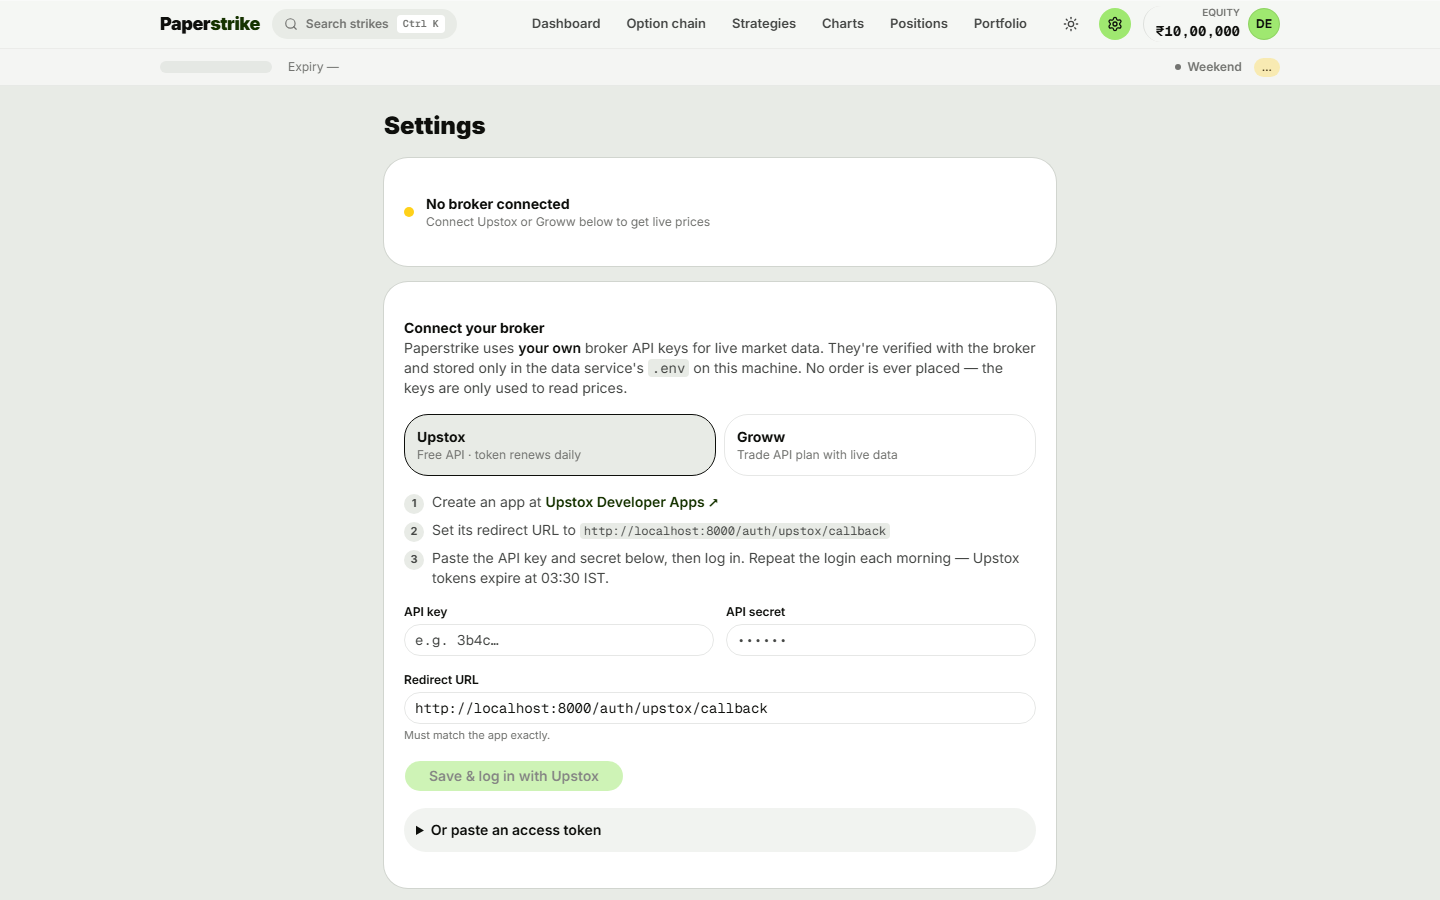
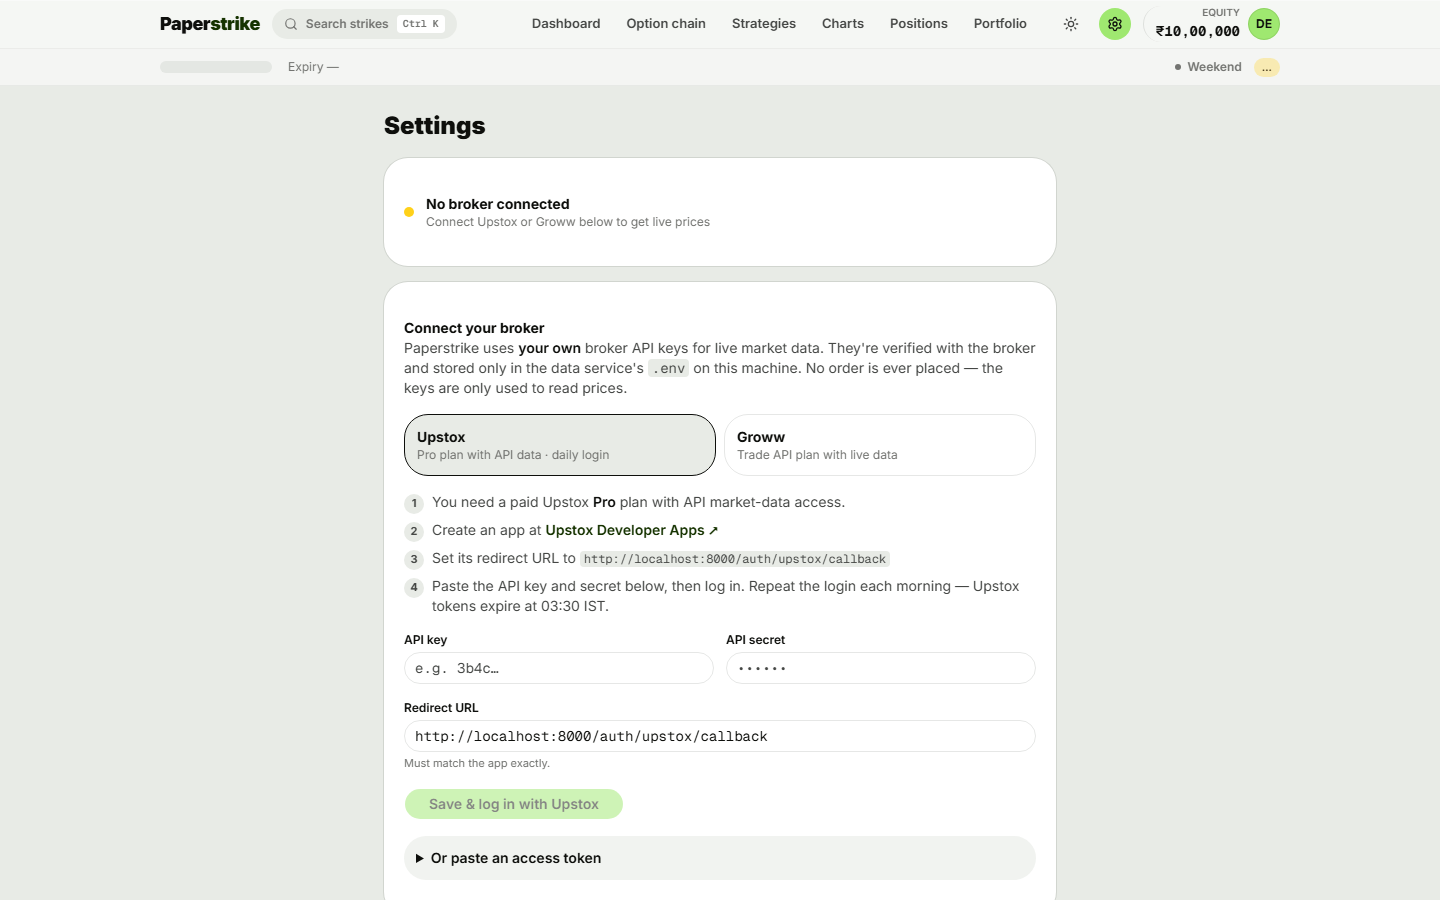
Clarify that Upstox API market data needs a paid Pro plan

Changed region(s): [[0.25, 0.4978, 0.75, 1.0]]

diff --git a/web/src/components/broker-connect.tsx b/web/src/components/broker-connect.tsx
@@ -56,7 +56,7 @@ async function post(path: string, body: unknown) {
 }
 
 const BROKERS: { id: BrokerId; label: string; blurb: string }[] = [
-  { id: "upstox", label: "Upstox", blurb: "Free API · token renews daily" },
+  { id: "upstox", label: "Upstox", blurb: "Pro plan with API data · daily login" },
   { id: "groww", label: "Groww", blurb: "Trade API plan with live data" },
 ];
 
@@ -210,15 +210,18 @@ function UpstoxForm({ status, busy, connect }: { status: BrokerStatus | null; bu
     <div className="flex flex-col gap-4">
       <ol className="flex flex-col gap-1.5">
         <Step n={1}>
+          You need a paid Upstox <strong className="font-semibold text-foreground">Pro</strong> plan with API market-data access.
+        </Step>
+        <Step n={2}>
           Create an app at{" "}
           <a className="font-semibold text-ink-deep hover:underline" href="https://account.upstox.com/developer/apps" target="_blank" rel="noreferrer">
             Upstox Developer Apps ↗
           </a>
         </Step>
-        <Step n={2}>
+        <Step n={3}>
           Set its redirect URL to <code className="rounded bg-secondary px-1 text-xs">{callback}</code>
         </Step>
-        <Step n={3}>Paste the API key and secret below, then log in. Repeat the login each morning — Upstox tokens expire at 03:30 IST.</Step>
+        <Step n={4}>Paste the API key and secret below, then log in. Repeat the login each morning — Upstox tokens expire at 03:30 IST.</Step>
       </ol>
 
       <div className="grid gap-3 sm:grid-cols-2">

diff --git a/web/src/app/page.tsx b/web/src/app/page.tsx
@@ -211,7 +211,7 @@ export default function Landing() {
           },
           {
             q: "Do I need an account?",
-            a: "Not with us. There's no sign-up and nothing is sent anywhere — Paperstrike runs on your own machine and your keys stay there. You do need your own broker API keys for the market feed: Upstox (free, log in once a day) or Groww (Trade API plan with live data).",
+            a: "Not with us. There's no sign-up and nothing is sent anywhere — Paperstrike runs on your own machine and your keys stay there. You do need your own broker API keys for the market feed: Upstox (Pro plan with API data, log in once a day) or Groww (Trade API plan with live data). Both brokers charge for API market data.",
           },
           {
             q: "Is it really free and open source?",

diff --git a/README.md b/README.md
@@ -101,16 +101,19 @@ npm run dev
 Paperstrike doesn't have its own data feed. It uses **your** broker account's API,
 so you get real, exchange-grade prices under your own broker's terms.
 
+> **Both brokers charge for API market data.** Paperstrike itself is free, but you need an
+> active paid API/data plan with Upstox or Groww. Check current pricing with your broker.
+
 | | **Upstox** | **Groww** |
 |---|---|---|
-| Cost | Free API | Trade API plan **that includes live data** (the free trial doesn't) |
+| Cost | Paid **Upstox Pro** plan with API market-data access | Paid Trade API plan **that includes live data** (the free trial doesn't) |
 | Daily login | Yes. Tokens expire at 03:30 IST, and **Log in with Upstox** is one click | **No** with TOTP keys, because Paperstrike renews the token itself |
 | Where to get keys | [Upstox developer apps](https://account.upstox.com/developer/apps) | [Groww Trade API](https://groww.in/trade-api) → API keys |
 
 <details>
 <summary><b>Upstox: step by step</b></summary>
 
-1. Open [Upstox developer apps](https://account.upstox.com/developer/apps) and create a new app.
+1. Make sure your Upstox account has the **Pro** plan with API market-data access, then open [Upstox developer apps](https://account.upstox.com/developer/apps) and create a new app.
 2. Set the app's **redirect URL** to `http://localhost:8000/auth/upstox/callback`.
 3. In Paperstrike go to **Settings → Upstox**, paste the **API key** and **API secret**, and click **Save & log in with Upstox**.
 4. Each morning, click **Log in with saved app**. Upstox tokens expire every day at 03:30 IST.
